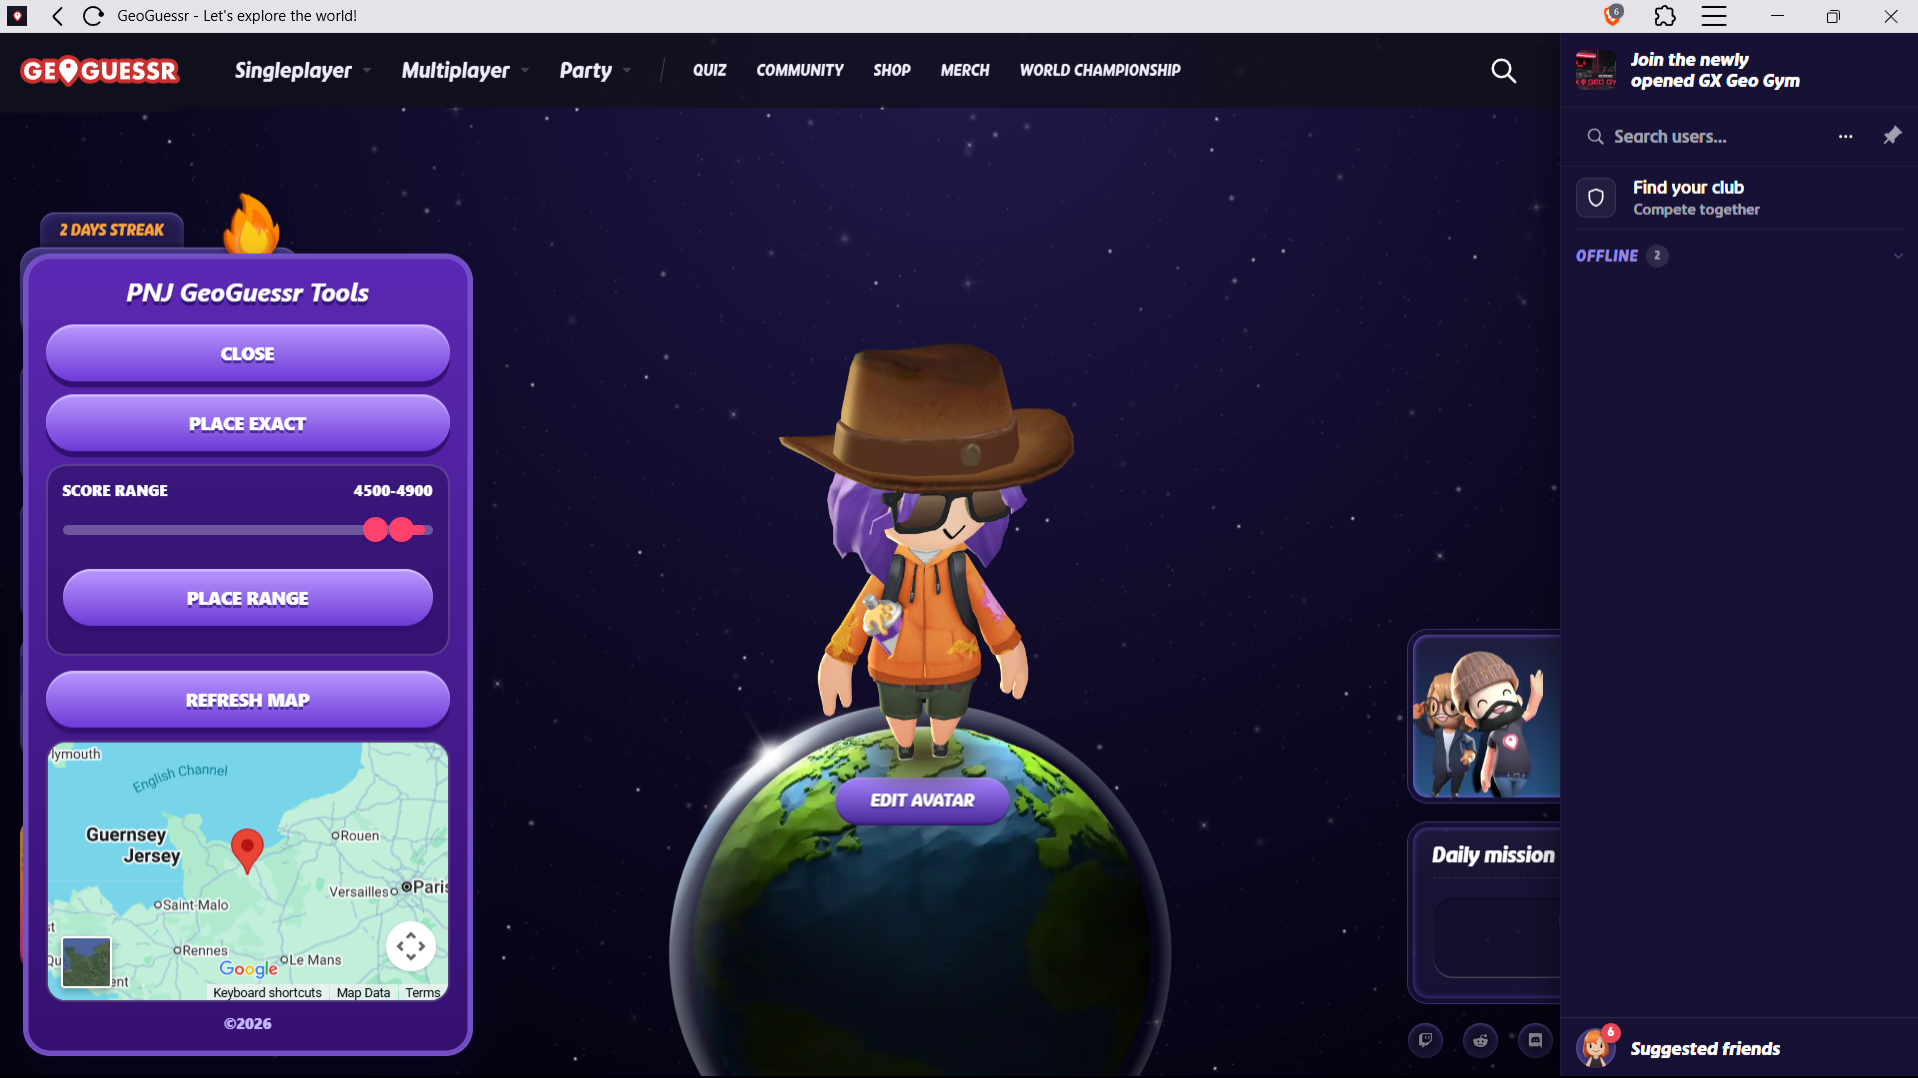
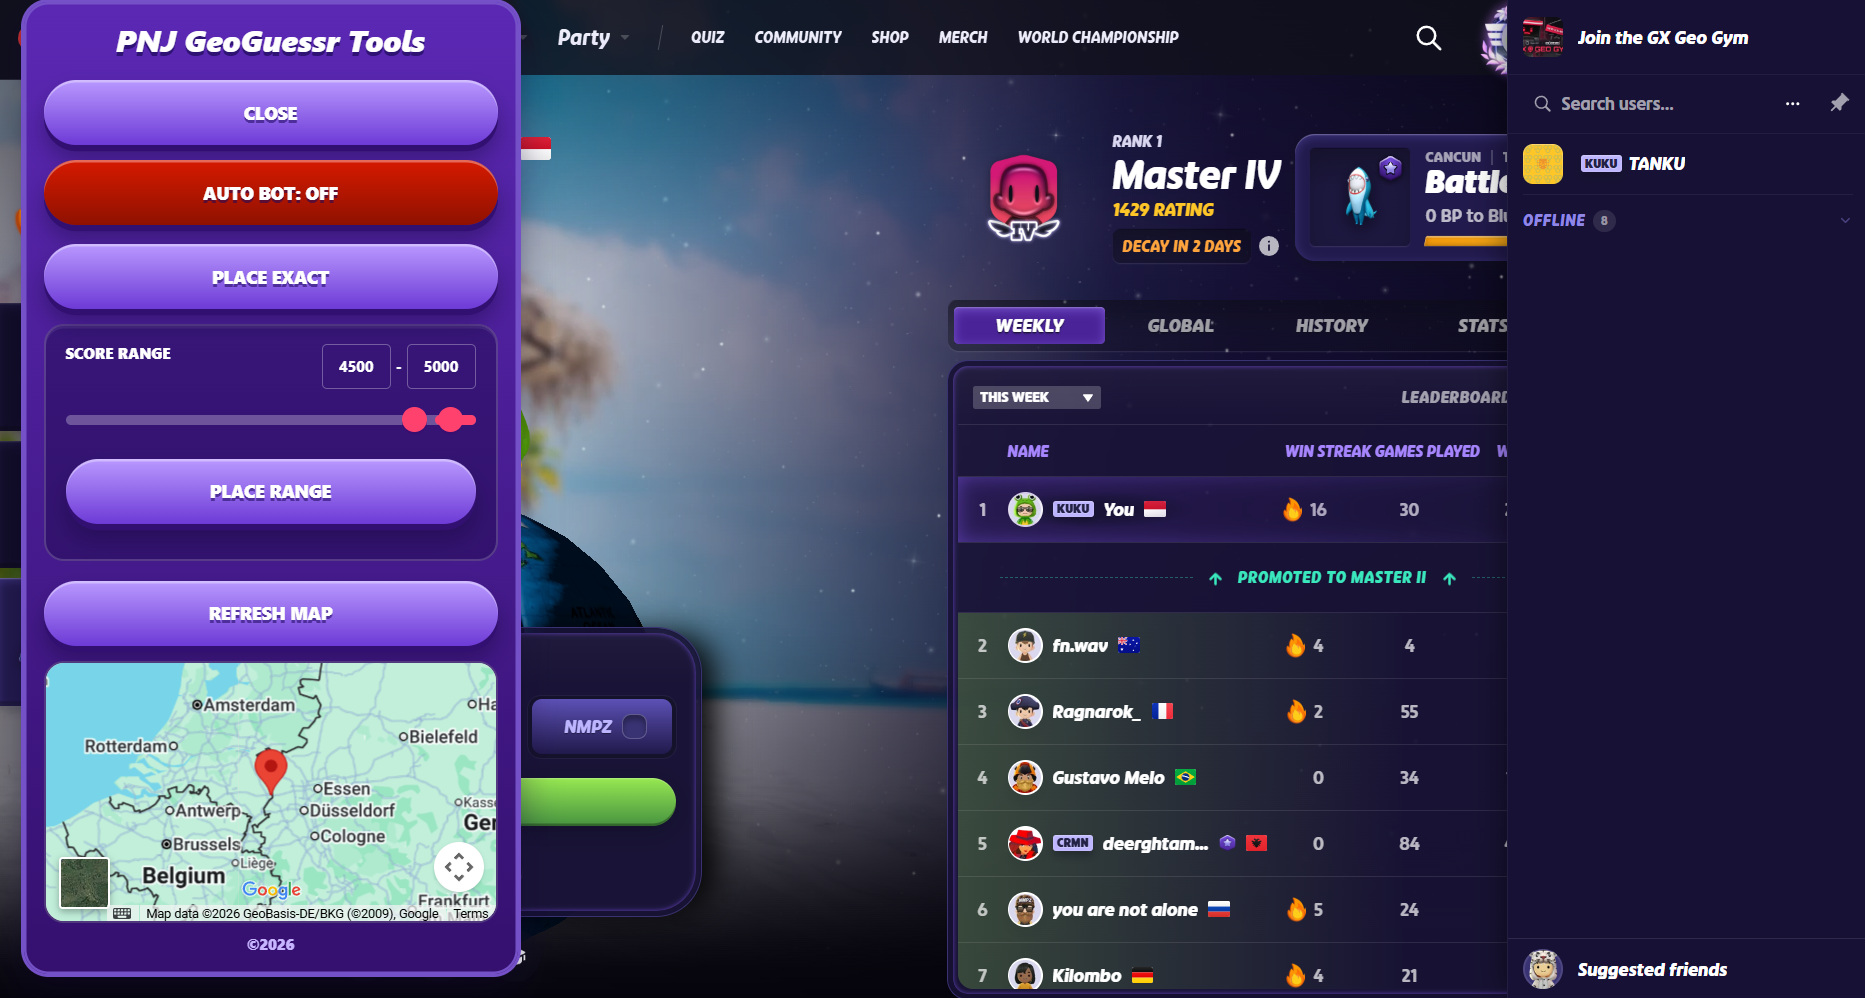
feat: implement React-based web interface and update PWA panel styling

diff --git a/internal.js b/internal.js
@@ -966,25 +966,35 @@
           left: 18px;
           bottom: 18px;
           z-index: 2147483647;
-          width: min(360px, calc(100vw - 36px));
+          width: min(400px, calc(100vw - 36px));
           color: #fff;
           font: 950 14px/1.2 "Arial Rounded MT Bold", system-ui, sans-serif;
         }
         #pnj-pwa-panel * { box-sizing: border-box; }
+        #pnj-pwa-panel input[type=number]::-webkit-inner-spin-button, 
+        #pnj-pwa-panel input[type=number]::-webkit-outer-spin-button { 
+          -webkit-appearance: none; 
+          margin: 0; 
+        }
+        #pnj-pwa-panel input[type=number] {
+          -moz-appearance: textfield;
+        }
         #pnj-pwa-panel button {
           width: 100%;
-          min-height: 46px;
-          margin: 0 0 10px;
+          min-height: 52px;
+          margin: 0 0 12px;
+          padding: 0 16px;
           border: 0;
           border-radius: 999px;
           background: linear-gradient(180deg, #b999ff, #6d3ad6);
-          box-shadow: inset 0 2px 0 rgba(255,255,255,.35), 0 5px 0 #321071;
+          box-shadow: inset 0 2px 0 rgba(255,255,255,.35), 0 5px 0 #321071, 0 12px 18px rgba(17, 5, 47, .38);
           color: #fff;
           cursor: pointer;
-          font: inherit;
+          font: 950 14px/1 "Arial Rounded MT Bold", system-ui, sans-serif;
           text-transform: uppercase;
           text-shadow: 0 2px 0 rgba(30,8,92,.55);
         }
+        #pnj-pwa-panel button:hover { filter: brightness(1.08); }
         #pnj-pwa-panel .launcher {
           width: 112px;
           height: 58px;
@@ -992,7 +1002,7 @@
           padding: 0 16px 0 56px;
           border-radius: 16px;
           background:
[2 lines of base64/hex data omitted]
             linear-gradient(180deg, #b999ff, #6d3ad6);
           font-size: 18px;
           text-align: right;
@@ -1005,18 +1015,20 @@
           box-shadow: 0 12px 28px rgba(17,5,47,.42), inset 0 0 0 2px #7551c8;
         }
         #pnj-pwa-panel h2 {
-          margin: 0 0 14px;
-          font-size: 20px;
+          margin: 0 0 18px;
+          font-size: 24px;
           font-style: italic;
+          font-weight: 950;
           text-align: center;
           text-shadow: 0 3px 0 rgba(25,8,85,.65);
         }
         #pnj-pwa-panel .range {
-          margin-bottom: 12px;
-          padding: 12px;
+          margin-bottom: 16px;
+          padding: 14px 16px 16px;
           border: 2px solid rgba(255,255,255,.18);
           border-radius: 16px;
           background: rgba(24,6,68,.42);
+          box-shadow: inset 0 2px 0 rgba(255, 255, 255, .08);
         }
         #pnj-pwa-panel .range-title {
           display: flex;
@@ -1086,6 +1098,7 @@
           border: 2px solid rgba(255,255,255,.18);
           border-radius: 16px;
           background: rgba(24,6,68,.42);
+          box-shadow: inset 0 2px 0 rgba(255, 255, 255, .08);
         }
         #pnj-pwa-panel small {
           display: block;
@@ -1116,11 +1129,6 @@
             <input data-pnj-max type="range" min="0" max="5000" step="1" value="5000">
           </div>
           <button data-pnj-place="nearby" type="button">Place range</button>
-        </div>
-        <div class="range">
-          <div class="range-title"><span>Exact Score Target (Max 4999)</span></div>
-          <input data-pnj-exact-score type="number" min="0" max="4999" value="4990" style="width:100%; padding:8px; margin-bottom:10px; border-radius:8px; border:none; background:rgba(255,255,255,0.9); font-weight:bold; color: #333;">
-          <button data-pnj-place="exact-score" type="button">Place exact score</button>
         </div>
         <button data-pnj-refresh type="button">Refresh map</button>
         <iframe data-pnj-map title="Round map"></iframe>
@@ -1194,14 +1202,7 @@
       }
       if (button.dataset.pnjRefresh !== undefined) refreshMap();
       if (button.dataset.pnjPlace) {
-        let range = scoreRange();
-        if (button.dataset.pnjPlace === "exact-score") {
-          const exactVal = Math.max(0, Math.min(4999, Number(host.querySelector("[data-pnj-exact-score]").value || 4990)));
-          range = { min: exactVal, max: exactVal };
-          window.__pnjCmdPlace(currentCoord(), "nearby", { scoreRange: range }).then(refreshMap);
-        } else {
-          window.__pnjCmdPlace(currentCoord(), button.dataset.pnjPlace, { scoreRange: range }).then(refreshMap);
-        }
+        window.__pnjCmdPlace(currentCoord(), button.dataset.pnjPlace, { scoreRange: scoreRange() }).then(refreshMap);
       }
     });
     window.addEventListener("pnj_loc_upd", refreshMap);

diff --git a/web/src/main.jsx b/web/src/main.jsx
@@ -9,6 +9,7 @@ import pwaTwo from "../../images/pwa2.png";
 import "./styles.css";
 
 const features = [
+  ["Built-in Auto Bot", "Farm EXP seamlessly in the background with auto-guess and auto-next round."],
   ["Place exact", "Drop the pin on the captured round location."],
   ["Place nearby", "Choose a score range and place close enough."],
   ["Refresh map", "Preview the round location inside the popup."],
@@ -101,20 +102,18 @@ function App() {
       <section className="mode-band" aria-label="Companion tools and resources">
         <article style={{ display: "flex", flexDirection: "column", justifyContent: "space-between" }}>
           <div>
-            <p className="eyebrow">Companion Userscript</p>
-            <h2>Auto-GeoGuessr Bot</h2>
+            <p className="eyebrow">Fully Integrated</p>
+            <h2>Built-in Auto Bot</h2>
             <p>
-              Looking to automate your GeoGuessr farming? We have a companion Tampermonkey Userscript that automatically clicks the PNJ buttons and cycles through rounds entirely on its own! It farms EXP seamlessly in the background.
+              Looking to automate your GeoGuessr farming? No need for external scripts anymore! The Auto-GeoGuessr Bot is now natively built into the extension. Just toggle the "AUTO BOT" button to farm EXP seamlessly in the background.
             </p>
           </div>
           <div className="actions" style={{ marginTop: "1.5rem" }}>
             <a
               className="button primary"
-              href="https://github.com/peenjeee/auto-geoguessr"
-              target="_blank"
-              rel="noreferrer"
+              href="#install"
             >
-              Get Auto Bot
+              Install Extension
             </a>
           </div>
         </article>

diff --git a/README.md b/README.md
@@ -11,21 +11,20 @@ cd geoguessr-reverse-engineering
 
 ## Features
 
-- Place exact
-- Place nearby with an adjustable score range slider
-- Refresh map preview for the current round location
-- Browser side panel for normal Chrome/Brave tabs
-- In-page launcher fallback for installed GeoGuessr PWA windows
+- **Built-in Auto Bot**: Farm EXP seamlessly in the background with auto-guess and auto-next round.
+- **Place exact**: Drop the pin on the captured round location.
+- **Place nearby**: Choose a score range and place close enough.
+- **Refresh map**: Preview the round location for the current round.
+- **Browser side panel**: For normal Chrome/Brave tabs.
+- **In-page PWA launcher**: Fallback for installed GeoGuessr PWA windows.
 
-## Auto-GeoGuessr Bot
+## Built-in Auto Bot
 
-Looking to automate your GeoGuessr farming? We have a companion Tampermonkey Userscript that clicks the PNJ buttons and cycles through rounds entirely on its own!
+No need for external Tampermonkey scripts anymore! The Auto-GeoGuessr Bot is now natively built into the extension. Just click the "AUTO BOT" button in the extension panel to toggle it on.
 
 - **Farms EXP seamlessly** in the background.
-- **Auto places the pin & guesses**.
+- **Auto places the pin & guesses** based on your score range.
 - **Automatically plays the next round**.
-
-[Download the Auto-GeoGuessr Userscript](https://github.com/peenjeee/auto-geoguessr)
 
 ## Free GeoGuessr Challenge Links
 
